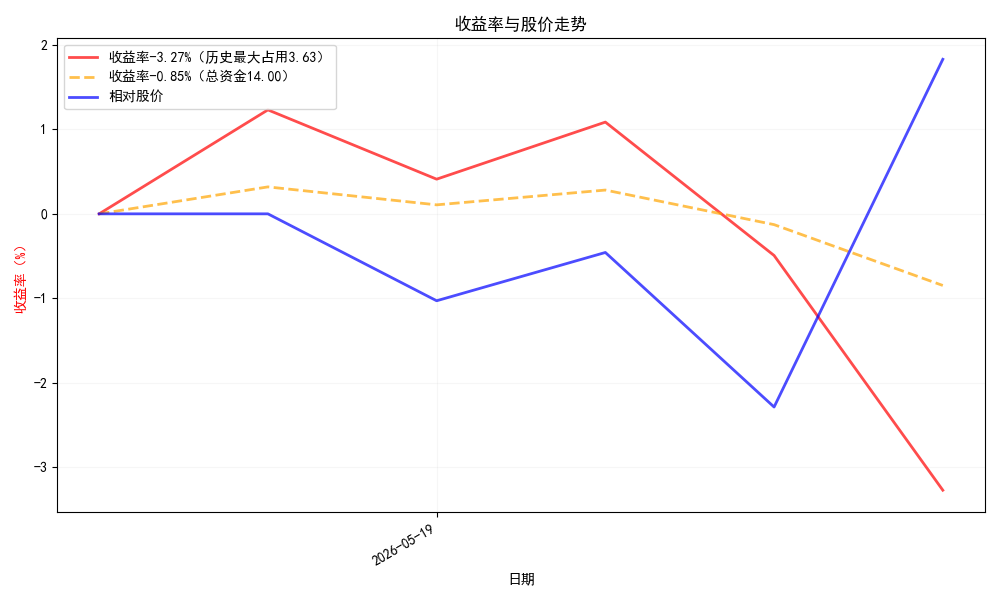
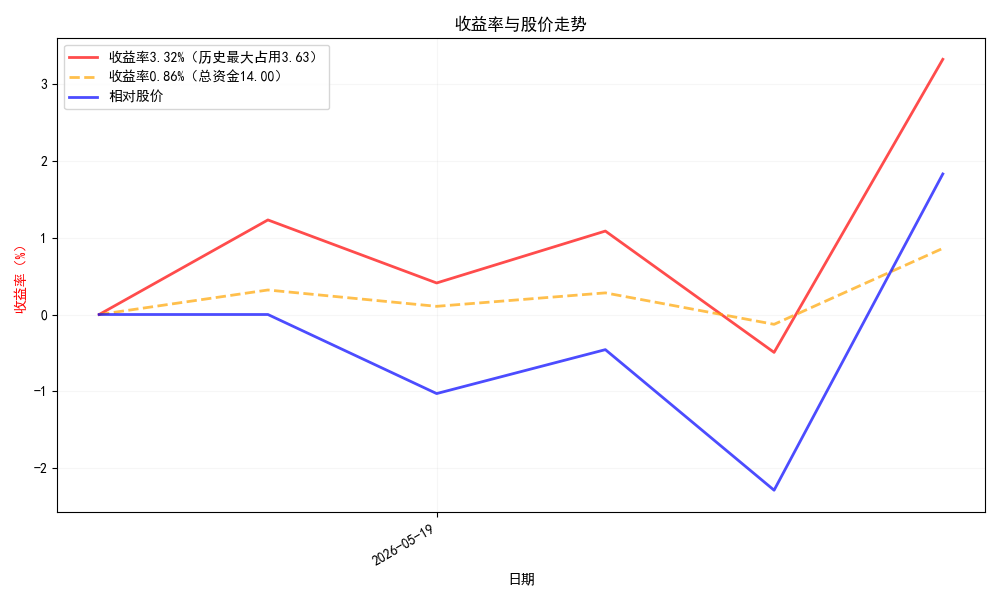
自动更新分析结果 - 22-2026-05 15:33:23

diff --git a/index.html b/index.html
@@ -135,7 +135,7 @@
     <div class="container">
         <div class="header">
             <h1>策略收益报表</h1>
-            <p>生成时间: 2026年05月22日 15:08:00 | 分析数量: 1 只</p>
+            <p>生成时间: 2026年05月22日 15:33:23 | 分析数量: 1 只</p>
         </div>
 
         <div class="stock-card">
@@ -144,7 +144,7 @@
                 <div class="stats">
                     <div class="stat-item">
                         <div class="stat-label">总收益(元)</div>
-                        <div class="stat-value negative">-1,188.06</div>
+                        <div class="stat-value positive">1,206.15</div>
                     </div>
                     <div class="stat-item">
                         <div class="stat-label">策略收益(元)</div>
@@ -152,16 +152,16 @@
                     </div>
                     <div class="stat-item">
                         <div class="stat-label">持仓收益(元)</div>
-                        <div class="stat-value">-1,546.09</div>
+                        <div class="stat-value">848.12</div>
                     </div>
                     <div class="stat-item">
                         <div class="stat-label">收益率（总资金）</div>
-                        <div class="stat-value negative">-0.85%</div>
+                        <div class="stat-value positive">0.86%</div>
                     </div>
                 
                     <div class="stat-item">
                         <div class="stat-label">收益率（最大占用资金）</div>
-                        <div class="stat-value negative">-3.27%</div>
+                        <div class="stat-value positive">3.32%</div>
                     </div>
                     <div class="stat-item">
                         <div class="stat-label">最大占用资金</div>